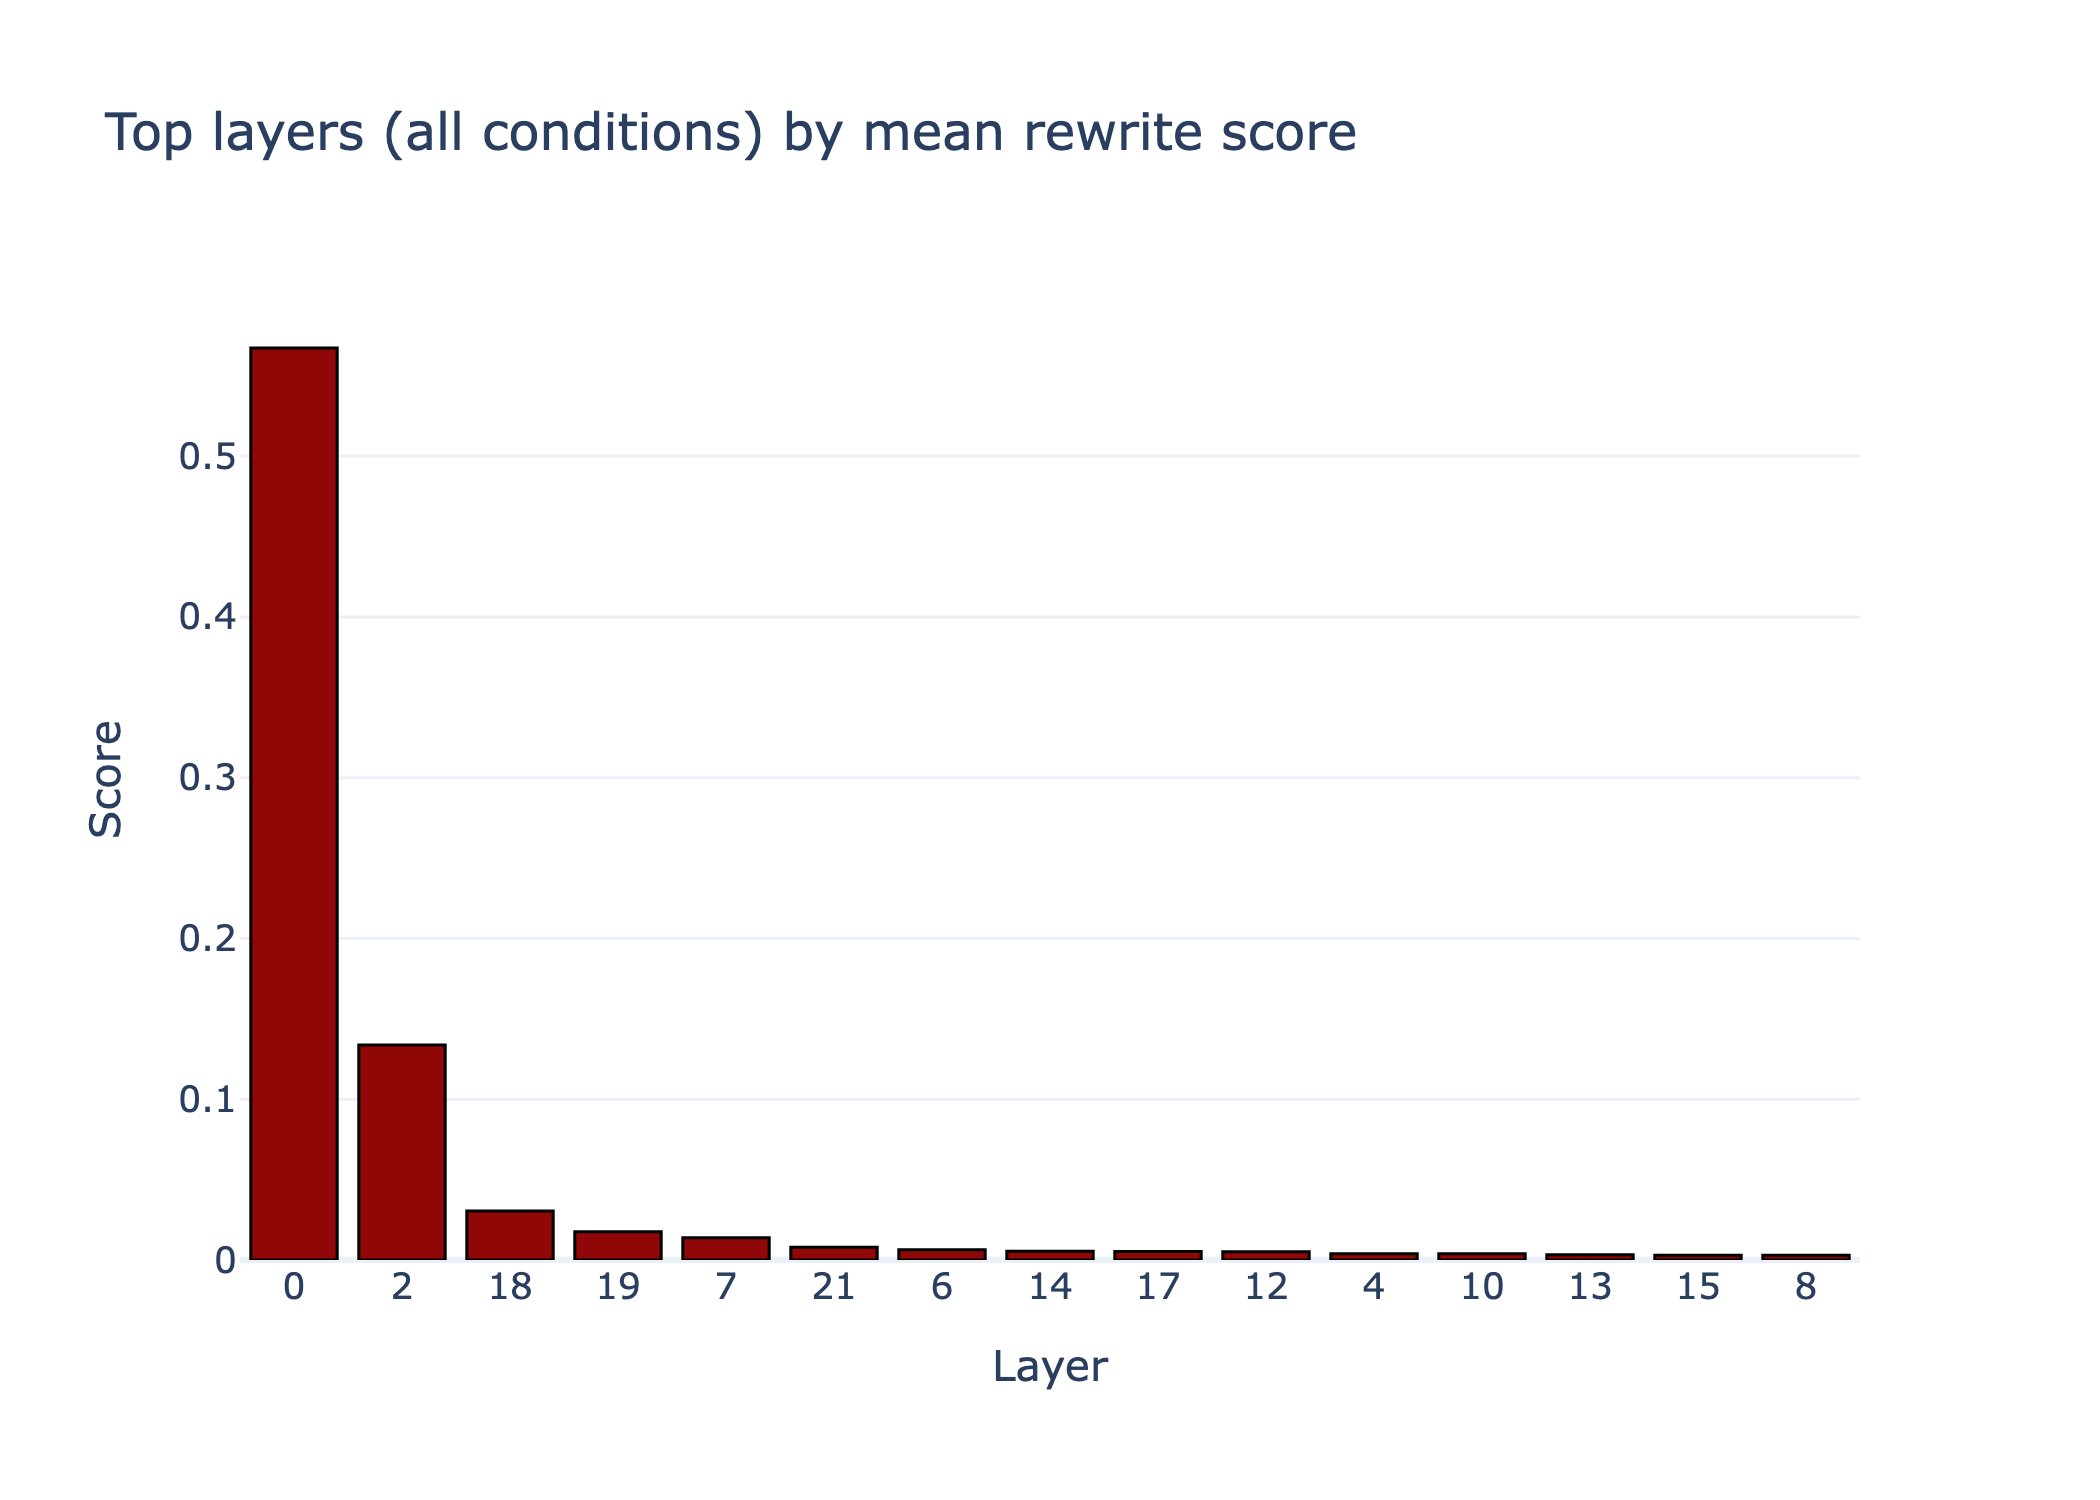
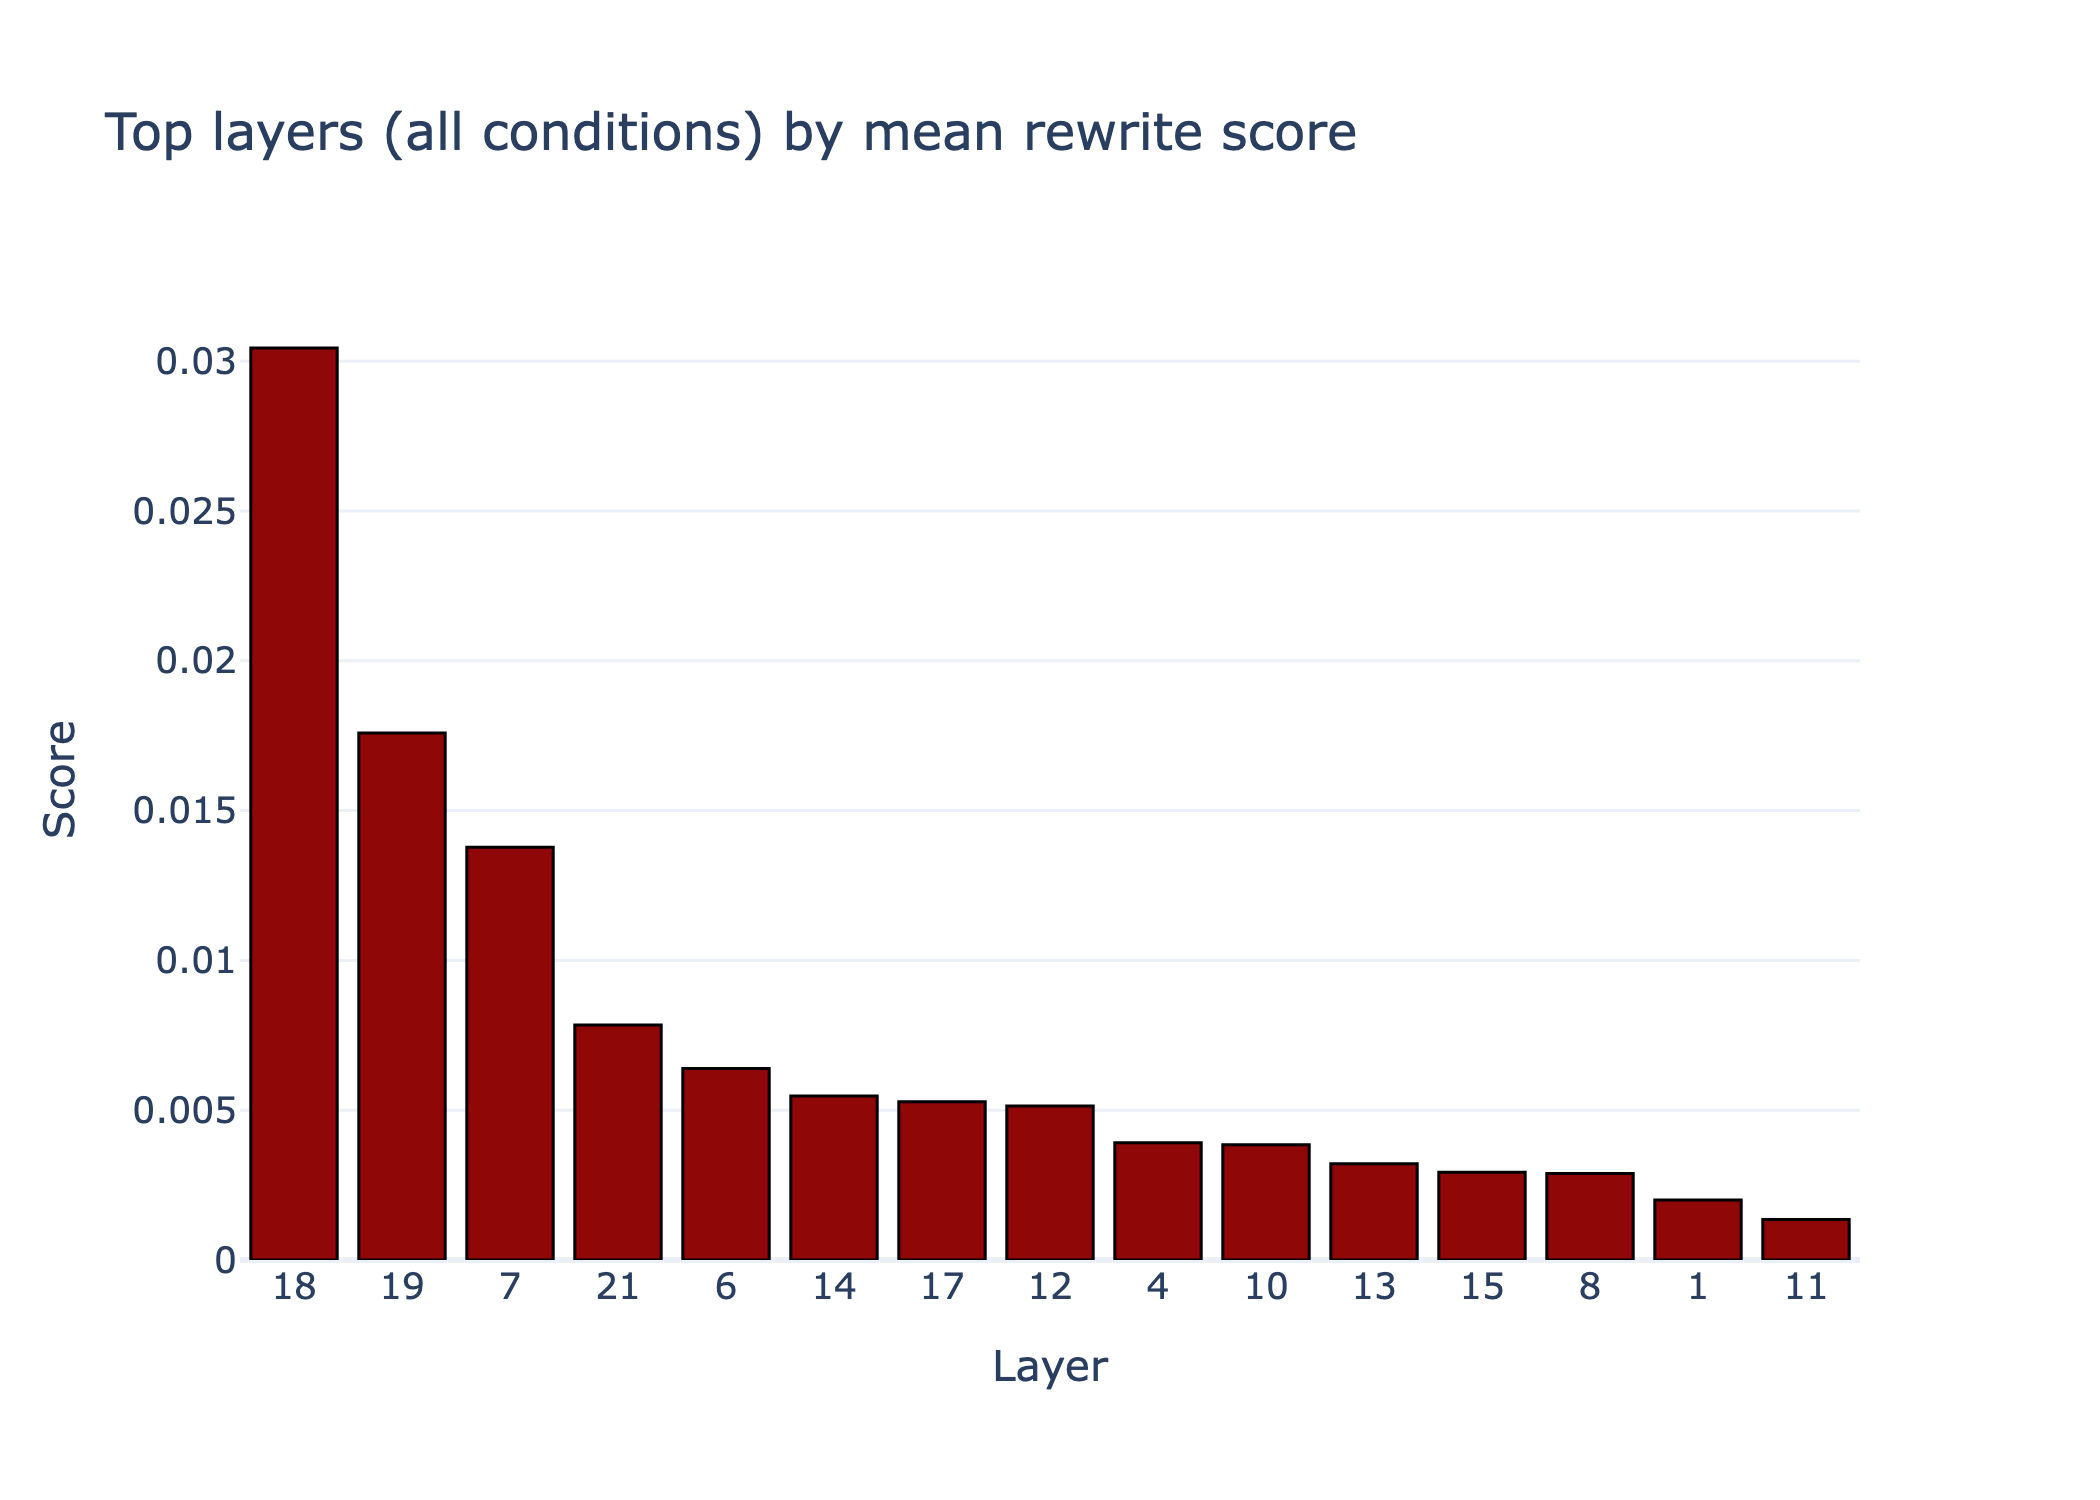
fig3: drop the layer-0 and layer-2 early-layer artifacts
Same chart as om's fig2c_toplayers_all_conditions (identical data, order and
title); om's version muted layers 0 and 2 rather than dropping them, which
left the y-axis pinned at 0.57 and flattened everything else.

Removing them rescales the axis to 0.03, so L18 leads and the mid-layer
structure is legible. Order is now 18, 19, 7, 21, 6, 14, 17, 12, 4, 10, 13,
15, 8, 1, 11. The paper already excludes these two from interpretation as
prompt-template artifacts.

diff --git a/figures_new_palette/regenerate.py b/figures_new_palette/regenerate.py
@@ -131,7 +131,9 @@ def _fig3_paper(fig):
     fig.update_layout(template="plotly_white")            # paper: white, not blue-grey
 ns = make_ns(OUT / "fig3_top_layers.png", post=_fig3_paper)
 exec(src, ns)
-ns["plot_top_layers_bar"]([(l, float(per[l])) for l in range(28)],
+# layers 0 and 2 are the early-layer template artifact the paper excludes
+ns["plot_top_layers_bar"]([(l, float(per[l])) for l in range(28)
+                           if l not in (0, 2)],
                           "Top layers (all conditions) by mean rewrite score",
                           str(OUT / "fig3_top_layers"), plot_format="png")
 
